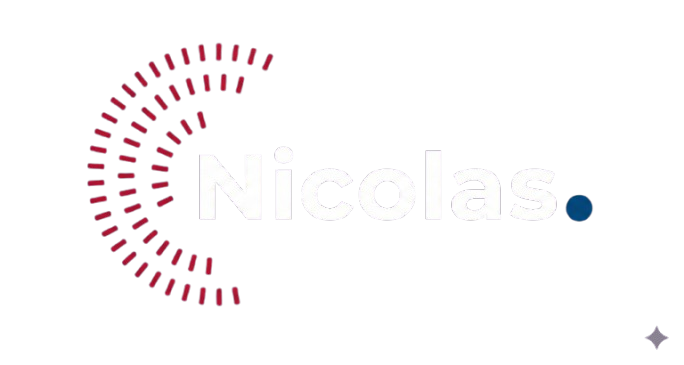
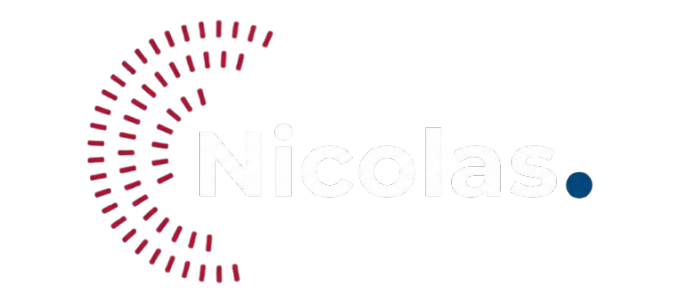
ok

diff --git a/components/Navbar.jsx b/components/Navbar.jsx
@@ -2,80 +2,86 @@ import { assets } from '@/assets/assets'
 import Image from 'next/image'
 import React, { useEffect, useRef, useState } from 'react'
 
-const Navbar = ({isDarkMode, setIsDarkMode}) => {
+const Navbar = ({ isDarkMode, setIsDarkMode }) => {
 
     const [isScroll, setIsScroll] = useState(false)
     const sideMenuRef = useRef();
 
-    const openMenu = ()=>{
+    const openMenu = () => {
         sideMenuRef.current.style.transform = 'translateX(-16rem)'
     }
-    const closeMenu = ()=>{
+    const closeMenu = () => {
         sideMenuRef.current.style.transform = 'translateX(16rem)'
     }
 
-    useEffect(()=>{
-        window.addEventListener('scroll', ()=>{
-            if(scrollY > 50){
+    useEffect(() => {
+        window.addEventListener('scroll', () => {
+            if (scrollY > 50) {
                 setIsScroll(true)
-            }else{
+            } else {
                 setIsScroll(false)
             }
         })
-    },[])
+    }, [])
 
-  return (
-    <>
-    <div className='fixed top-0 right-0 w-11/12 -z-10 translate-y-[-80%] dark:hidden'>
-       <Image src={assets.header_bg_color} alt='' className='w-full' />
-    </div>
-
-      <nav className={`w-full fixed px-5 lg:px-8 xl:px-[8%] py-4 flex items-center justify-between z-50 ${isScroll ? "bg-white bg-opacity-50 backdrop-blur-lg shadow-sm dark:bg-darkTheme dark:shadow-white/20" : ""}`}>
-        <a href="#top">
-            <Image src={isDarkMode ? assets.logo_raph_dark : assets.logo_raph} alt='' className='w-28 alt="" cursor-pointer mr-14'/>
-        </a>
-
-        <ul className={`hidden md:flex items-center gap-6 lg:gap-8 rounded-full px-12 py-3 ${isScroll ? "" : "bg-white shadow-sm bg-opacity-50 dark:border dark:border-white/50 dark:bg-transparent"} `}>
-            <li><a className='font-Ovo' href="#top">Home</a></li>
-            <li><a className='font-Ovo' href="#about">About me</a></li>
-            <li><a className='font-Ovo' href="#services">Services</a></li>
-            <li><a className='font-Ovo' href="#work">My Work</a></li>
-            <li><a className='font-Ovo' href="#contact">Contact me</a></li>
-        </ul>
-
-        <div className='flex items-center gap-4'>
-
-            <button onClick={()=> setIsDarkMode(prev => !prev)}>
-                <Image src={isDarkMode ? assets.sun_icon : assets.moon_icon} alt='' className='w-6' />
-            </button>
-
-            <a href="#contact" className='hidden lg:flex items-center gap-3 px-10 py-2.5 border border-gray-500 rounded-full ml-4 font-Ovo dark:border-white/50'>Contact 
-            <Image src={isDarkMode ? assets.arrow_icon_dark : assets.arrow_icon} alt="" className='w-3'/></a>
-
-            <button className='block md:hidden ml-3' onClick={openMenu}>
-            <Image src={isDarkMode ? assets.menu_white : assets.menu_black} alt='' className='w-6' />
-            </button>
-        </div>
-
-        {/* -- ----- mobile menu ------  -- */}
-
-        <ul ref={sideMenuRef} className='flex md:hidden flex-col gap-4 py-20 px-10 fixed -right-64 top-0 bottom-0 w-64 z-50 h-screen bg-rose-50 transition duration-500 dark:bg-darkHover dark:text-white'>
-
-            <div className='absolute right-6 top-6' onClick={closeMenu}>
-                <Image src={isDarkMode ? assets.close_white : assets.close_black} alt='' className='w-5 cursor-pointer' />
+    return (
+        <>
+            <div className='fixed top-0 right-0 w-11/12 -z-10 translate-y-[-80%] dark:hidden'>
+                <Image src={assets.header_bg_color} alt='' className='w-full' />
             </div>
 
-            <li><a className='font-Ovo' onClick={closeMenu} href="#top">Home</a></li>
-            <li><a className='font-Ovo' onClick={closeMenu} href="#about">About me</a></li>
-            <li><a className='font-Ovo' onClick={closeMenu} href="#services">Services</a></li>
-            <li><a className='font-Ovo' onClick={closeMenu} href="#work">My Work</a></li>
-            <li><a className='font-Ovo' onClick={closeMenu} href="#contact">Contact me</a></li>
-        </ul>
+            <nav className={`w-full fixed px-5 lg:px-8 xl:px-[8%] py-4 flex items-center justify-between z-50 ${isScroll ? "bg-white bg-opacity-50 backdrop-blur-lg shadow-sm dark:bg-darkTheme dark:shadow-white/20" : ""}`}>
+                <a href="#top" className="w-64 h-14 relative cursor-pointer mr-14">
+                    <Image
+                        src={isDarkMode ? assets.logo_raph_dark : assets.logo_raph}
+                        alt=''
+                        fill
+                        className="object-contain object-left"
+                        priority
+                    />
+                </a>
+
+                <ul className={`hidden md:flex items-center gap-6 lg:gap-8 rounded-full px-12 py-3 ${isScroll ? "" : "bg-white shadow-sm bg-opacity-50 dark:border dark:border-white/50 dark:bg-transparent"} `}>
+                    <li><a className='font-Ovo' href="#top">Home</a></li>
+                    <li><a className='font-Ovo' href="#about">About me</a></li>
+                    <li><a className='font-Ovo' href="#services">Services</a></li>
+                    <li><a className='font-Ovo' href="#work">My Work</a></li>
+                    <li><a className='font-Ovo' href="#contact">Contact me</a></li>
+                </ul>
+
+                <div className='flex items-center gap-4'>
+
+                    <button onClick={() => setIsDarkMode(prev => !prev)}>
+                        <Image src={isDarkMode ? assets.sun_icon : assets.moon_icon} alt='' className='w-6' />
+                    </button>
+
+                    <a href="#contact" className='hidden lg:flex items-center gap-3 px-10 py-2.5 border border-gray-500 rounded-full ml-4 font-Ovo dark:border-white/50'>Contact
+                        <Image src={isDarkMode ? assets.arrow_icon_dark : assets.arrow_icon} alt="" className='w-3' /></a>
+
+                    <button className='block md:hidden ml-3' onClick={openMenu}>
+                        <Image src={isDarkMode ? assets.menu_white : assets.menu_black} alt='' className='w-6' />
+                    </button>
+                </div>
+
+                {/* -- ----- mobile menu ------  -- */}
+
+                <ul ref={sideMenuRef} className='flex md:hidden flex-col gap-4 py-20 px-10 fixed -right-64 top-0 bottom-0 w-64 z-50 h-screen bg-rose-50 transition duration-500 dark:bg-darkHover dark:text-white'>
+
+                    <div className='absolute right-6 top-6' onClick={closeMenu}>
+                        <Image src={isDarkMode ? assets.close_white : assets.close_black} alt='' className='w-5 cursor-pointer' />
+                    </div>
+
+                    <li><a className='font-Ovo' onClick={closeMenu} href="#top">Home</a></li>
+                    <li><a className='font-Ovo' onClick={closeMenu} href="#about">About me</a></li>
+                    <li><a className='font-Ovo' onClick={closeMenu} href="#services">Services</a></li>
+                    <li><a className='font-Ovo' onClick={closeMenu} href="#work">My Work</a></li>
+                    <li><a className='font-Ovo' onClick={closeMenu} href="#contact">Contact me</a></li>
+                </ul>
 
 
-      </nav>
-    </>
-  )
+            </nav>
+        </>
+    )
 }
 
 export default Navbar

diff --git a/assets/assets.js b/assets/assets.js
@@ -11,8 +11,8 @@ import graphics_icon from "./graphics-icon.png";
 import hand_icon from "./hand-icon.png";
 import header_bg_color from "./header-bg-color.png";
 import hecxensae from "./hecxensae.png";
-import logo_raph from "./logo_nicolas.svg";
-import logo_raph_dark from "./logo_nicolas_dark_v2.png";
+import logo_raph from "./logo_nicolas_white.png";
+import logo_raph_dark from "./logo_nicolas_black.png";
 import mail_icon from "./mail_icon.png";
 import mail_icon_dark from "./mail_icon_dark.png";
 import menu_black from "./menu-black.png";
